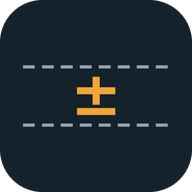
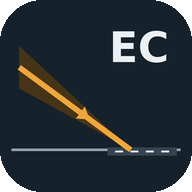
Uygulama simgesini yandan pist ve yaklaşma hattı (EC) ile değiştir
Claude-Session: https://claude.ai/code/session_01GeSpr8SspFEVJKWctshcYb

diff --git a/sw.js b/sw.js
@@ -1,5 +1,5 @@
 // Tolerans Alıştırması: internetsiz çalışma katmanı. Sürüm, index.html değiştikçe değişir.
-const SURUM = "tolerans-aed8f57d83";
+const SURUM = "tolerans-simge2-05297034";
 const DOSYALAR = ["./","index.html","manifest.webmanifest","ikon-192.png","ikon-512.png","ikon-maskable-512.png","apple-touch-icon.png"];
 self.addEventListener("install", e => { e.waitUntil(caches.open(SURUM).then(c => c.addAll(DOSYALAR)).then(() => self.skipWaiting())); });
 self.addEventListener("activate", e => { e.waitUntil(caches.keys().then(k => Promise.all(k.filter(x => x !== SURUM).map(x => caches.delete(x)))).then(() => self.clients.claim())); });
